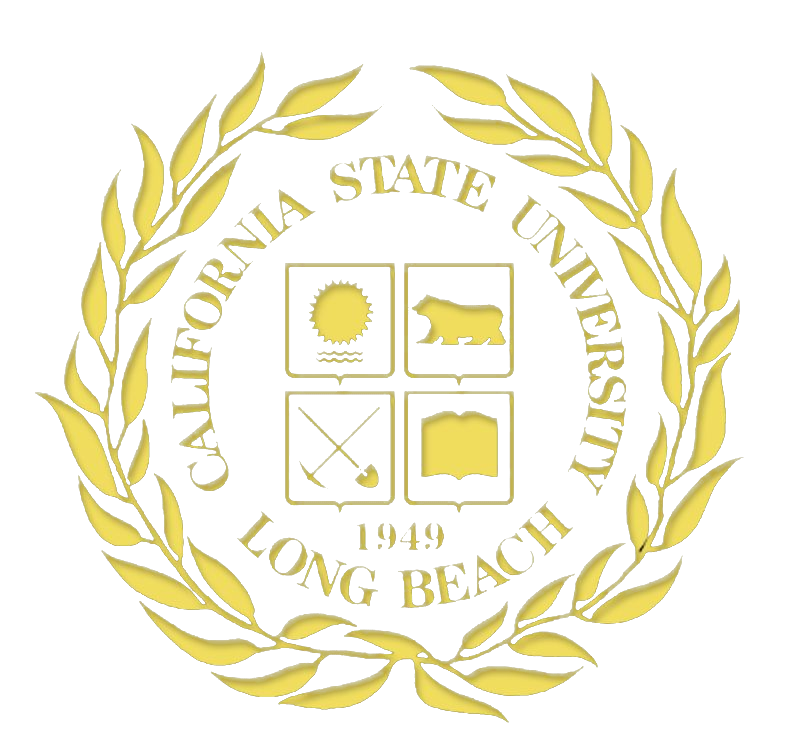
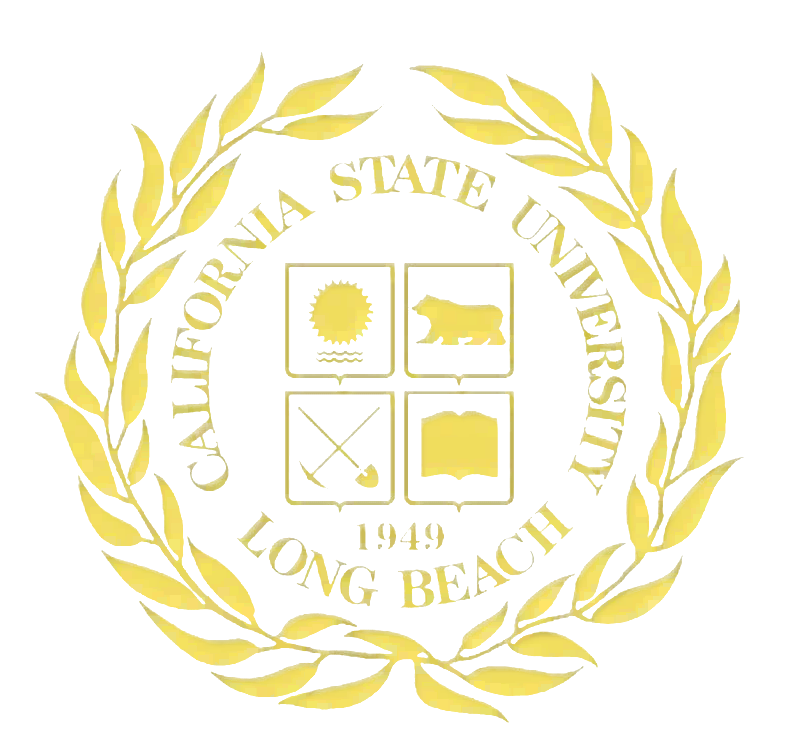
remove useless images

diff --git a/index.html b/index.html
@@ -147,7 +147,7 @@
                 </div>
                 <div class="university row">
                     <div class="col-2 logo">
-                        <img src="images/companies/csulb-dilated.png" />
+                        <img src="images/companies/csulb.png" />
                     </div>
                     <div class="col-10">
                         <h2>California State University Long Beach - California, USA - Certificate</h2>
